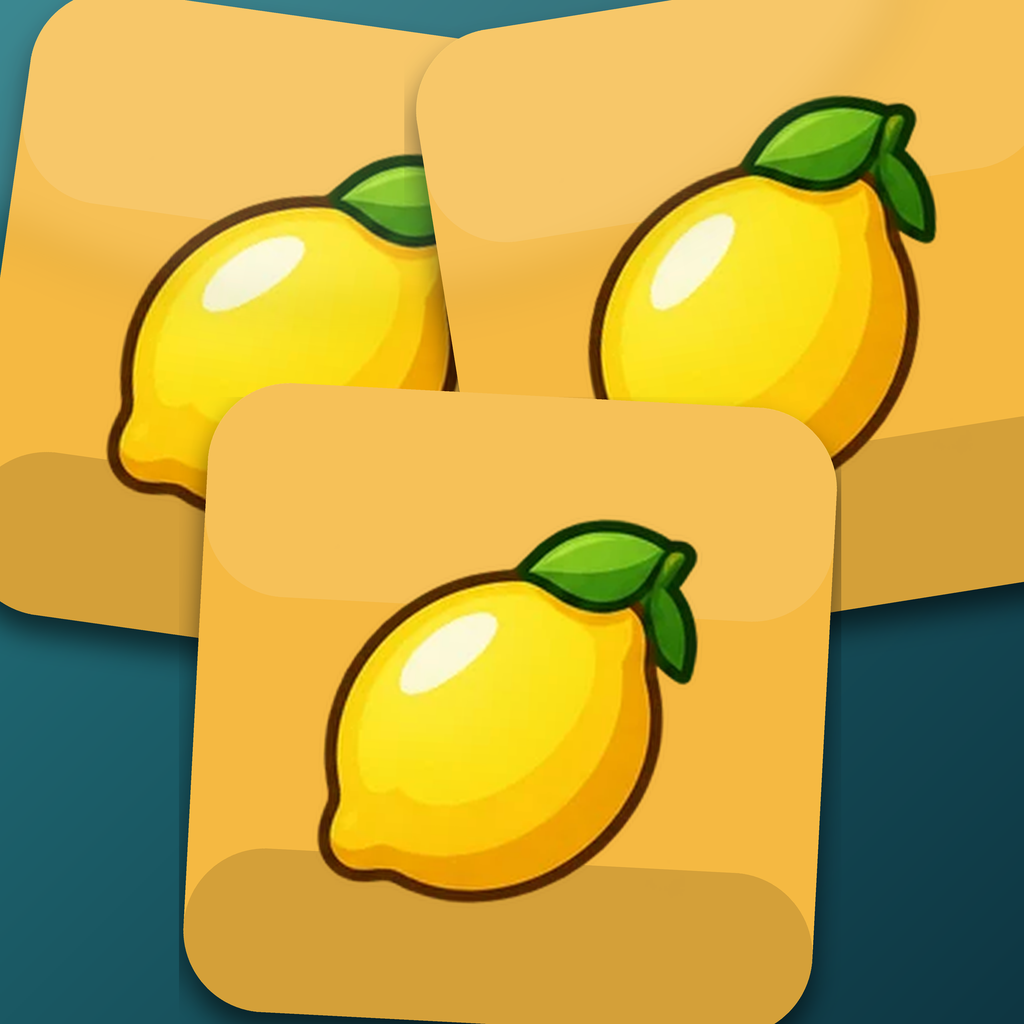
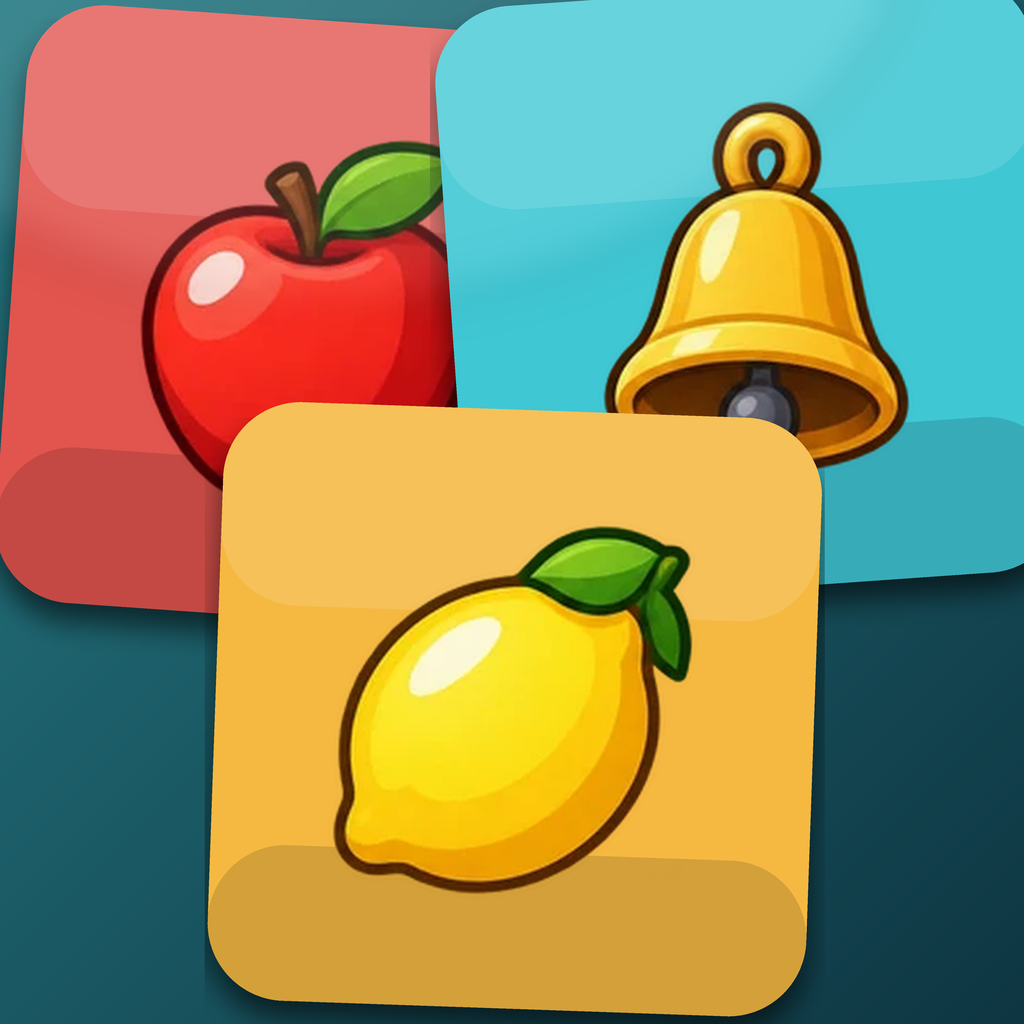
The hub tile picks its size at 46 pixels, not 256
Triple Tile's pieces became real drawings yesterday, which left the hub
tile showing a lemon that exists nowhere in the game - breaking this
folder's own rule, that a tile shows the game's own pieces. The new one
is drawn from those very files: the game's lemon, the game's tile
colour, the corner radius out of its stylesheet. No generation, no
cost, and it can be rebuilt whenever the pieces change.

Getting there took one wrong turn worth keeping. The first version used
three LEMONS, so the picture would say "collect three of a kind" rather
than "here are some fruits". The idea was right and it failed at 46
pixels, which is the size the tile actually appears at in the hub
grid: three tiles of one colour merge into a single yellow smear. The
old lemon tile had the same flaw and nobody had noticed, because it had
only ever been judged at full size. Match Candy, sitting right beside
it, reads perfectly for the opposite reason - four different colours.

So the tile carries the game's first three kinds instead, and separates
itself from its neighbour by arrangement rather than colour: Match
Candy is a flat 2x2 grid, this is a tilted overlapping pile, which is
what Triple Tile's tray actually looks like. The tilt came down from 8
degrees to 4 for the same reason - at small sizes a steep angle blurs
the tile edges and the pile becomes one mass.

Also recorded: PIL's ImageDraw.Draw(im, 'RGBA') does not blend a
translucent fill into an RGBA image, it overwrites. A highlight drawn
[…]

diff --git a/games/dragon/dragon.js b/games/dragon/dragon.js
@@ -1,29 +1,29 @@
-import { initTelegram, haptic, showBackButton, backToHubOnResume, getUser } from '../../js/tg.js?v237';
-import { registerTexts, t, applyStaticTexts, locale } from '../../js/i18n-hook.js?v237';
+import { initTelegram, haptic, showBackButton, backToHubOnResume, getUser } from '../../js/tg.js?v238';
+import { registerTexts, t, applyStaticTexts, locale } from '../../js/i18n-hook.js?v238';
 
-import { CONFIG, gorselSeviye } from './config.js?v237';
-import { bakimdaMi } from '../../js/store.js?v237';
+import { CONFIG, gorselSeviye } from './config.js?v238';
+import { bakimdaMi } from '../../js/store.js?v238';
 import { oyuncuyuYukle, oyuncuyuKaydet, aktifEjderha, yuvaAcikMi, bugun,
          ejderhaEkle, bostaIsle, bekleyenYumurta, EN_COK_YUVA,
-         izgarayiGenislet, genislemeHakki } from './model.js?v237';
-import { dragonSvg, dragonAssetUrls } from './art.js?v237';
-import { turCek, turYolu, turBul } from './turler.js?v237';
-import { taniBaslat, iz } from '../../js/tani.js?v237';
-import { ucur, zipla, sayacAkit, belir } from './canlandir.js?v237';
+         izgarayiGenislet, genislemeHakki } from './model.js?v238';
+import { dragonSvg, dragonAssetUrls } from './art.js?v238';
+import { turCek, turYolu, turBul } from './turler.js?v238';
+import { taniBaslat, iz } from '../../js/tani.js?v238';
+import { ucur, zipla, sayacAkit, belir } from './canlandir.js?v238';
 import { KADEMELER, kademeGorevleri, kademeAcikMi, gorevAcikMi, aktifGorev,
          kademeIlerleme, tumGorevler, KADEME_GOREV_SAYISI,
          PARTNER_OYUNLAR, PARTNER_ODULLERI, PARTNER_BUYUK_ODUL,
-         partnerKademe } from './gorevler.js?v237';
-import { getBest, gorevOlay, promoKutuAl } from '../../js/store.js?v237';
-import { siparisleriTamamla, siparisDurumu, siparisiAl, siparisiDegistir } from './siparis.js?v237';
+         partnerKademe } from './gorevler.js?v238';
+import { getBest, gorevOlay, promoKutuAl } from '../../js/store.js?v238';
+import { siparisleriTamamla, siparisDurumu, siparisiAl, siparisiDegistir } from './siparis.js?v238';
 import { createBoard, nesneKoy, bosHucreVarMi, gorselYolu, onYukleListesi, kapDurumu, kapMi, sureKisa,
-         kilitliMi, nesneMi } from './grid.js?v237';
+         kilitliMi, nesneMi } from './grid.js?v238';
 import { YUMURTA, EN_UST_YUMURTA, BESLEME_PENCERESI, SIRA_GOSTERILEN,
          GUNLUK_ODULLER, yemMaliyeti, seviyeIcinBesleme,
          toplamaSonucu, sandikDegeri, sandikAraligi, ustBasamakMi, atlamaFiyati, kapSuresi,
          beslemeYumurtaSeviyesi, yumurtaAraligi, yuvaFiyati,
-         bostaHesapla, BOSTA_TAVAN, ejderhaSansi } from './ekonomi.js?v237';
-import { createTutorial, pozListesi } from './tutorial.js?v237';
+         bostaHesapla, BOSTA_TAVAN, ejderhaSansi } from './ekonomi.js?v238';
+import { createTutorial, pozListesi } from './tutorial.js?v238';
 
 const GAME_ID = 'dragon';
 

diff --git a/js/hub.js b/js/hub.js
@@ -1,19 +1,19 @@
 
-import { initTelegram, getUser, haptic, hideBackButton, isTelegramUser, openShareLink, openInvoice } from './tg.js?v237';
+import { initTelegram, getUser, haptic, hideBackButton, isTelegramUser, openShareLink, openInvoice } from './tg.js?v238';
 import {
    getPoints, getBest, sunucuDurumu,
    getEnergy, getStreak, claimStreak, getSpin, spinWheel, odulDurumu, liderTablosu, refreshDaily,
    referralOzeti, adEnergyRefill, starEnergyInvoiceLink, enerjiBosMu, bakimListesi,
    getGorev, gorevAl, promoKullan, promoKayit, sahipMiyim,
-} from './store.js?v237';
-import { enerjiBosOnayi } from './onay.js?v237';
-import { initLang, t, locale, applyTranslations, renderLangSwitcher, mhHtml } from './i18n.js?v237';
+} from './store.js?v238';
+import { enerjiBosOnayi } from './onay.js?v238';
+import { initLang, t, locale, applyTranslations, renderLangSwitcher, mhHtml } from './i18n.js?v238';
 
 // Adsgram partner panelinde olusturulan "Reward" ad unit'inin Block ID'si.
 const ADSGRAM_BLOCK_ID = '43308';
 
 const BOT_LINK = '';
-import { taniBaslat, iz } from './tani.js?v237';
+import { taniBaslat, iz } from './tani.js?v238';
 
 const BOT_USERNAME = 'minihubgames_bot';
 
@@ -181,7 +181,7 @@ function gameList() {
          desc: t('game.tripletile.desc'),
          icon: ICONS.tripletile,
          url: 'games/tripletile/index.html',
-         foto: 'assets/game-tile/tripletile.webp',
+         foto: 'assets/game-tile/tripletile-v2.webp',
          gradient: 'linear-gradient(145deg, #ffdd92 0%, #f5b23f 48%, #e07a2c 100%)',
          accent: '#f5b942',
          ready: true,

diff --git a/js/i18n.js b/js/i18n.js
@@ -11,7 +11,7 @@ const DICT = {
     'hub.title': 'MINI HUB GAMES',
     'hub.subtitle': 'Play the games, earn $MH, and be part of our ecosystem.',
     'hub.gamesTitle': 'Games',
-    'hub.version': 'Version 1.97',
+    'hub.version': 'Version 1.98',
     'hub.sync.guest': 'Not connected',
     'hub.settings.title': 'Settings',
     'hub.settings.language': 'Language',
@@ -580,7 +580,7 @@ const DICT = {
     'hub.title': 'MINI HUB GAMES',
     'hub.subtitle': 'Oyunları oyna, $MH kazan ve ekosistemimizin bir parçası ol.',
     'hub.gamesTitle': 'Oyunlar',
-    'hub.version': 'Sürüm 1.97',
+    'hub.version': 'Sürüm 1.98',
     'hub.sync.guest': 'Bağlı değil',
     'hub.settings.title': 'Ayarlar',
     'hub.settings.language': 'Dil',
@@ -1149,7 +1149,7 @@ const DICT = {
     'hub.title': 'MINI HUB GAMES',
     'hub.subtitle': 'Juega, gana $MH y forma parte de nuestro ecosistema.',
     'hub.gamesTitle': 'Juegos',
-    'hub.version': 'Versión 1.97',
+    'hub.version': 'Versión 1.98',
     'hub.sync.guest': 'Sin conexión',
     'hub.settings.title': 'Ajustes',
     'hub.settings.language': 'Idioma',
@@ -1718,7 +1718,7 @@ const DICT = {
     'hub.title': 'MINI HUB GAMES',
     'hub.subtitle': 'Играй, зарабатывай $MH и стань частью нашей экосистемы.',
     'hub.gamesTitle': 'Игры',
-    'hub.version': 'Версия 1.97',
+    'hub.version': 'Версия 1.98',
     'hub.sync.guest': 'Нет подключения',
     'hub.settings.title': 'Настройки',
     'hub.settings.language': 'Язык',

diff --git a/games/wheelrush/index.html b/games/wheelrush/index.html
@@ -2,7 +2,7 @@
 <html lang="tr">
 <head>
   <meta charset="UTF-8">
-  <meta name="surum" content="237">
+  <meta name="surum" content="238">
   <meta name="viewport" content="width=device-width, initial-scale=1.0, maximum-scale=1.0, user-scalable=no, viewport-fit=cover">
   <title>Tekerlek Yarışı</title>
   <script src="https://telegram.org/js/telegram-web-app.js"></script>
@@ -13,10 +13,10 @@
       if (sessionStorage.getItem('mh_hub_open') !== '1') location.replace('../../index.html');
     } catch (e) {}
   </script>
-  <link rel="stylesheet" href="../../css/style.css?v237">
-  <link rel="stylesheet" href="../../css/game.css?v237">
-  <link rel="stylesheet" href="wheelrush.css?v237">
-  <link rel="stylesheet" href="../../css/cerceve.css?v237">
+  <link rel="stylesheet" href="../../css/style.css?v238">
+  <link rel="stylesheet" href="../../css/game.css?v238">
+  <link rel="stylesheet" href="wheelrush.css?v238">
+  <link rel="stylesheet" href="../../css/cerceve.css?v238">
 </head>
 <body class="game" data-i18n-title="title">
   <div class="app game-app">
@@ -63,6 +63,6 @@
 
   </div>
 
-  <script type="module" src="wheelrush.js?v237"></script>
+  <script type="module" src="wheelrush.js?v238"></script>
 </body>
 </html>

diff --git a/games/blockblast/index.html b/games/blockblast/index.html
@@ -2,7 +2,7 @@
 <html lang="tr">
 <head>
   <meta charset="UTF-8">
-  <meta name="surum" content="237">
+  <meta name="surum" content="238">
   <meta name="viewport" content="width=device-width, initial-scale=1.0, maximum-scale=1.0, user-scalable=no, viewport-fit=cover">
   <title>Blok Bulmaca</title>
   <script src="https://telegram.org/js/telegram-web-app.js"></script>
@@ -13,10 +13,10 @@
       if (sessionStorage.getItem('mh_hub_open') !== '1') location.replace('../../index.html');
     } catch (e) {}
   </script>
-  <link rel="stylesheet" href="../../css/style.css?v237">
-  <link rel="stylesheet" href="../../css/game.css?v237">
-  <link rel="stylesheet" href="blockblast.css?v237">
-  <link rel="stylesheet" href="../../css/cerceve.css?v237">
+  <link rel="stylesheet" href="../../css/style.css?v238">
+  <link rel="stylesheet" href="../../css/game.css?v238">
+  <link rel="stylesheet" href="blockblast.css?v238">
+  <link rel="stylesheet" href="../../css/cerceve.css?v238">
 </head>
 <body class="game" data-i18n-title="title">
   <div class="app game-app">
@@ -67,6 +67,6 @@
 
   </div>
 
-  <script type="module" src="blockblast.js?v237"></script>
+  <script type="module" src="blockblast.js?v238"></script>
 </body>
 </html>

diff --git a/games/2048/2048.js b/games/2048/2048.js
@@ -1,10 +1,10 @@
 
-import { initTelegram, haptic, showBackButton, backToHubOnResume } from '../../js/tg.js?v237';
-import { getBest, saveState, loadState, clearState, startRun, finishRunOrLegacy, yerelTohum } from '../../js/store.js?v237';
-import { initLang, t, locale, applyTranslations, mhHtml } from '../../js/i18n.js?v237';
-import { SFX, soundToggleHtml, mountSoundToggle } from '../../js/audio.js?v237';
-import { SIZE, mulberry32, createBoard, applyMove, isGameOver as boardIsOver, DIR_TO_CODE, CODE_TO_DIR } from './logic.js?v237';
-import { yarimBirakmaOnayi } from '../../js/onay.js?v237';
+import { initTelegram, haptic, showBackButton, backToHubOnResume } from '../../js/tg.js?v238';
+import { getBest, saveState, loadState, clearState, startRun, finishRunOrLegacy, yerelTohum } from '../../js/store.js?v238';
+import { initLang, t, locale, applyTranslations, mhHtml } from '../../js/i18n.js?v238';
+import { SFX, soundToggleHtml, mountSoundToggle } from '../../js/audio.js?v238';
+import { SIZE, mulberry32, createBoard, applyMove, isGameOver as boardIsOver, DIR_TO_CODE, CODE_TO_DIR } from './logic.js?v238';
+import { yarimBirakmaOnayi } from '../../js/onay.js?v238';
 
 const GAME_ID = '2048';
 const POINTS_DIVISOR = 23;

diff --git a/games/tripletile/index.html b/games/tripletile/index.html
@@ -2,7 +2,7 @@
 <html lang="en">
 <head>
   <meta charset="UTF-8">
-  <meta name="surum" content="237">
+  <meta name="surum" content="238">
   <meta name="viewport" content="width=device-width, initial-scale=1.0, maximum-scale=1.0, user-scalable=no, viewport-fit=cover">
   <title>Triple Tile</title>
   <script src="https://telegram.org/js/telegram-web-app.js"></script>
@@ -13,10 +13,10 @@
       if (sessionStorage.getItem('mh_hub_open') !== '1') location.replace('../../index.html');
     } catch (e) {}
   </script>
-  <link rel="stylesheet" href="../../css/style.css?v237">
-  <link rel="stylesheet" href="../../css/game.css?v237">
-  <link rel="stylesheet" href="tripletile.css?v237">
-  <link rel="stylesheet" href="../../css/cerceve.css?v237">
+  <link rel="stylesheet" href="../../css/style.css?v238">
+  <link rel="stylesheet" href="../../css/game.css?v238">
+  <link rel="stylesheet" href="tripletile.css?v238">
+  <link rel="stylesheet" href="../../css/cerceve.css?v238">
 </head>
 <body class="game" data-i18n-title="title">
   <div class="app game-app">
@@ -73,6 +73,6 @@
 
   </div>
 
-  <script type="module" src="tripletile.js?v237"></script>
+  <script type="module" src="tripletile.js?v238"></script>
 </body>
 </html>

diff --git a/games/watersort/index.html b/games/watersort/index.html
@@ -2,7 +2,7 @@
 <html lang="tr">
 <head>
   <meta charset="UTF-8">
-  <meta name="surum" content="237">
+  <meta name="surum" content="238">
   <meta name="viewport" content="width=device-width, initial-scale=1.0, maximum-scale=1.0, user-scalable=no, viewport-fit=cover">
   <title>Su Sıralama</title>
   <script src="https://telegram.org/js/telegram-web-app.js"></script>
@@ -13,10 +13,10 @@
       if (sessionStorage.getItem('mh_hub_open') !== '1') location.replace('../../index.html');
     } catch (e) {}
   </script>
-  <link rel="stylesheet" href="../../css/style.css?v237">
-  <link rel="stylesheet" href="../../css/game.css?v237">
-  <link rel="stylesheet" href="watersort.css?v237">
-  <link rel="stylesheet" href="../../css/cerceve.css?v237">
+  <link rel="stylesheet" href="../../css/style.css?v238">
+  <link rel="stylesheet" href="../../css/game.css?v238">
+  <link rel="stylesheet" href="watersort.css?v238">
+  <link rel="stylesheet" href="../../css/cerceve.css?v238">
 </head>
 <body class="game" data-i18n-title="title">
   <div class="app game-app">
@@ -66,6 +66,6 @@
 
   </div>
 
-  <script type="module" src="watersort.js?v237"></script>
+  <script type="module" src="watersort.js?v238"></script>
 </body>
 </html>

diff --git a/games/coindrop/index.html b/games/coindrop/index.html
@@ -2,7 +2,7 @@
 <html lang="tr">
 <head>
   <meta charset="UTF-8">
-  <meta name="surum" content="237">
+  <meta name="surum" content="238">
   <meta name="viewport" content="width=device-width, initial-scale=1.0, maximum-scale=1.0, user-scalable=no, viewport-fit=cover">
   <title>Coin Drop</title>
   <script src="https://telegram.org/js/telegram-web-app.js"></script>
@@ -13,10 +13,10 @@
       if (sessionStorage.getItem('mh_hub_open') !== '1') location.replace('../../index.html');
     } catch (e) {}
   </script>
-  <link rel="stylesheet" href="../../css/style.css?v237">
-  <link rel="stylesheet" href="../../css/game.css?v237">
-  <link rel="stylesheet" href="coindrop.css?v237">
-  <link rel="stylesheet" href="../../css/cerceve.css?v237">
+  <link rel="stylesheet" href="../../css/style.css?v238">
+  <link rel="stylesheet" href="../../css/game.css?v238">
+  <link rel="stylesheet" href="coindrop.css?v238">
+  <link rel="stylesheet" href="../../css/cerceve.css?v238">
 </head>
 <body class="game" data-i18n-title="title">
   <div class="app game-app">
@@ -76,6 +76,6 @@
 
   </div>
 
-  <script type="module" src="coindrop.js?v237"></script>
+  <script type="module" src="coindrop.js?v238"></script>
 </body>
 </html>

diff --git a/games/match3/index.html b/games/match3/index.html
@@ -2,7 +2,7 @@
 <html lang="tr">
 <head>
   <meta charset="UTF-8">
-  <meta name="surum" content="237">
+  <meta name="surum" content="238">
   <meta name="viewport" content="width=device-width, initial-scale=1.0, maximum-scale=1.0, user-scalable=no, viewport-fit=cover">
   <title>Şeker Eşleştir</title>
   <script src="https://telegram.org/js/telegram-web-app.js"></script>
@@ -13,10 +13,10 @@
       if (sessionStorage.getItem('mh_hub_open') !== '1') location.replace('../../index.html');
     } catch (e) {}
   </script>
-  <link rel="stylesheet" href="../../css/style.css?v237">
-  <link rel="stylesheet" href="../../css/game.css?v237">
-  <link rel="stylesheet" href="match3.css?v237">
-  <link rel="stylesheet" href="../../css/cerceve.css?v237">
+  <link rel="stylesheet" href="../../css/style.css?v238">
+  <link rel="stylesheet" href="../../css/game.css?v238">
+  <link rel="stylesheet" href="match3.css?v238">
+  <link rel="stylesheet" href="../../css/cerceve.css?v238">
 </head>
 <body class="game" data-i18n-title="title">
   <div class="app game-app">
@@ -72,6 +72,6 @@
 
   </div>
 
-  <script type="module" src="match3.js?v237"></script>
+  <script type="module" src="match3.js?v238"></script>
 </body>
 </html>

diff --git a/games/dragon/index.html b/games/dragon/index.html
@@ -2,7 +2,7 @@
 <html lang="en">
 <head>
   <meta charset="UTF-8">
-  <meta name="surum" content="237">
+  <meta name="surum" content="238">
   <meta name="viewport" content="width=device-width, initial-scale=1.0, maximum-scale=1.0, user-scalable=no, viewport-fit=cover">
   <title>Dragon Island</title>
   <script src="https://telegram.org/js/telegram-web-app.js"></script>
@@ -15,9 +15,9 @@
   <link rel="preconnect" href="https://fonts.googleapis.com">
   <link rel="preconnect" href="https://fonts.gstatic.com" crossorigin>
   <link rel="stylesheet" href="https://fonts.googleapis.com/css2?family=Cinzel:wght@400;500;600;800&display=swap">
-  <link rel="stylesheet" href="../../css/style.css?v237">
-  <link rel="stylesheet" href="../../css/game.css?v237">
-  <link rel="stylesheet" href="dragon.css?v237">
+  <link rel="stylesheet" href="../../css/style.css?v238">
+  <link rel="stylesheet" href="../../css/game.css?v238">
+  <link rel="stylesheet" href="dragon.css?v238">
 </head>
 <body class="game dragon-app" data-i18n-title="title">
 
@@ -238,6 +238,6 @@
     </div>
   </div>
 
-  <script type="module" src="dragon.js?v237"></script>
+  <script type="module" src="dragon.js?v238"></script>
 </body>
 </html>

diff --git a/games/flow/index.html b/games/flow/index.html
@@ -2,7 +2,7 @@
 <html lang="en">
 <head>
   <meta charset="UTF-8">
-  <meta name="surum" content="237">
+  <meta name="surum" content="238">
   <meta name="viewport" content="width=device-width, initial-scale=1.0, maximum-scale=1.0, user-scalable=no, viewport-fit=cover">
   <title>Flow Connect</title>
   <script src="https://telegram.org/js/telegram-web-app.js"></script>
@@ -13,10 +13,10 @@
       if (sessionStorage.getItem('mh_hub_open') !== '1') location.replace('../../index.html');
     } catch (e) {}
   </script>
-  <link rel="stylesheet" href="../../css/style.css?v237">
-  <link rel="stylesheet" href="../../css/game.css?v237">
-  <link rel="stylesheet" href="flow.css?v237">
-  <link rel="stylesheet" href="../../css/cerceve.css?v237">
+  <link rel="stylesheet" href="../../css/style.css?v238">
+  <link rel="stylesheet" href="../../css/game.css?v238">
+  <link rel="stylesheet" href="flow.css?v238">
+  <link rel="stylesheet" href="../../css/cerceve.css?v238">
 </head>
 <body class="game" data-i18n-title="title">
   <div class="app game-app">
@@ -66,6 +66,6 @@
 
   </div>
 
-  <script type="module" src="flow.js?v237"></script>
+  <script type="module" src="flow.js?v238"></script>
 </body>
 </html>
